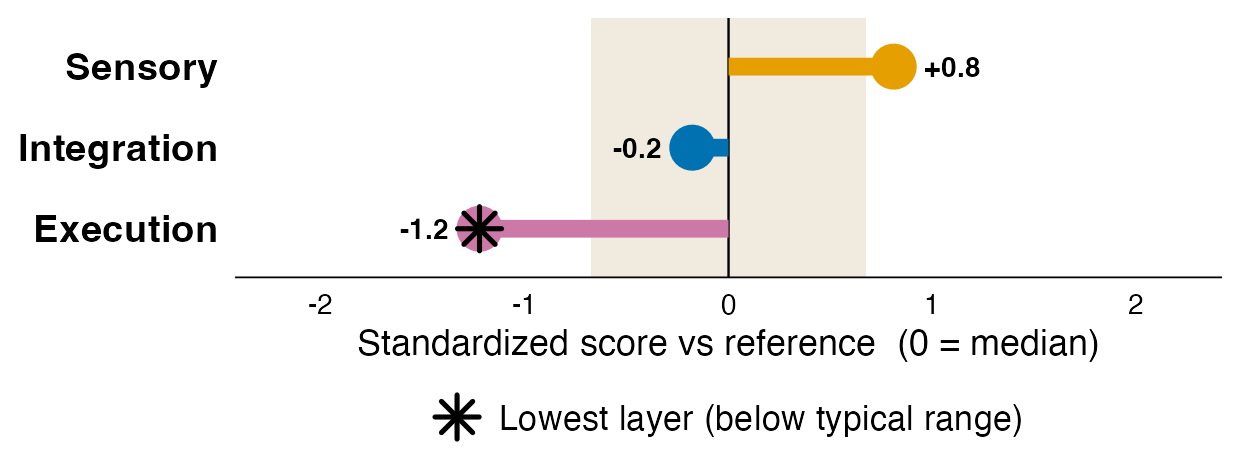
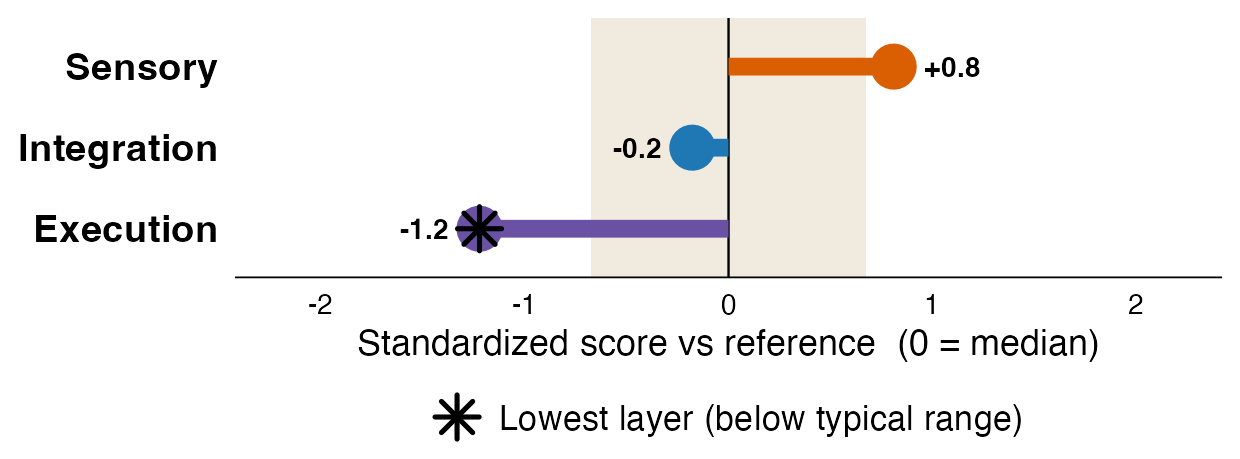
Docs: poster-style "how it works" (method + formula + archetypes + results)
Rebuild the hero figure as a self-explanatory poster in the Figure-1 house
style, so the flow reads on its own:
- The three layers we interrogate (Sensory / Integration / Execution) with
  sub-modules, gene counts, and example genes.
- How we score it, including the scoring formula (gene ON call, layer score,
  standardization, archetype rule).
- The four archetypes (intact / cold / blocked / no-kill) with phenotype and
  lowest layer, color-matched to the plots.
- Results = the app's real outputs: patient gauge and cascade tree, and the
  cohort archetype donut and per-patient layer-score beeswarm.
Plots rendered in the high-contrast palette (fig_gauge/tree/donut/beeswarm.png;
fig_cohort.png removed). American English; no em-dashes (also swept from the
README and two app.R strings). README image enlarged.

Changed region(s): [[0.3677, 0.427, 0.6129, 0.549], [0.5823, 0.0915, 0.7661, 0.2135], [0.521, 0.2745, 0.6129, 0.366]]

diff --git a/app/README.md b/app/README.md
@@ -1,14 +1,14 @@
 <p align="center">
-  <img src="www/logo.png" alt="CascadeScope — Immune Cascade Index" width="460">
+  <img src="www/logo.png" alt="CascadeScope: Immune Cascade Index" width="460">
 </p>
 
 <p align="center">
-  <b>CascadeScope</b> — score tumor RNA against the <b>Immune Cascade Index (ICI)</b> and see
+  <b>CascadeScope</b>: score tumor RNA against the <b>Immune Cascade Index (ICI)</b> and see
   <i>where immunity stalls</i>, one patient at a time.
 </p>
 
 <p align="center">
-  <em>Research use only — investigational biomarker, not a validated clinical test.</em>
+  <em>Research use only: investigational biomarker, not a validated clinical test.</em>
 </p>
 
 ---
@@ -17,10 +17,10 @@
 
 **CascadeScope** is the software; the **Immune Cascade Index (ICI)** is the method it implements.
 
-- **Immune Cascade Index (ICI)** — the *science*: a 98-gene, three-layer transcriptomic framework
+- **Immune Cascade Index (ICI)** is the *science*: a 98-gene, three-layer transcriptomic framework
   for reading the anti-tumor immune response to checkpoint blockade, developed and validated in the
   manuscript.
-- **CascadeScope** — the *software*: a self-contained R/Shiny app that computes and visualizes the
+- **CascadeScope** is the *software*: a self-contained R/Shiny app that computes and visualizes the
   ICI for a single patient (or a cohort), locally. Your data never leaves the machine.
 
 The ICI reads the immune response as a three-stage **cascade** and scores each stage against a
@@ -32,33 +32,33 @@ frozen reference population:
 | **Integration** | T-cell trafficking vs stromal / Treg exclusion | do immune cells *get in*? |
 | **Execution** | cytotoxic effector output (CD8 T **and** NK) vs exhaustion | do the cells that got in *kill*? |
 
-Every score — layers, sub-modules, and individual genes — is reported on **one scale**: the
+Every score (layers, sub-modules, and individual genes) is reported on **one scale**: the
 **standardized score versus the reference** (0 = reference median, in SD units). The lowest layer is
 flagged for attention (it marks where the cascade reads weakest, **not** a proven causal bottleneck).
 
 ## How it works
 
 <p align="center">
-  <img src="docs/architecture.png" alt="CascadeScope architecture" width="900">
+  <img src="docs/architecture.png" alt="How CascadeScope works: the three-layer cascade, the scoring formula, the four archetypes, and the app outputs" width="1000">
 </p>
 
-1. **Input** — a tumor RNA-seq gene × sample table (TPM, log-TPM or counts).
-2. **Score** — each gene is self-normalized within the sample and compared to a **frozen 98-gene
-   reference distribution**, so a single patient can be scored **cohort-independently**.
-3. **Cascade** — genes roll up into 5 sub-modules and 3 layers; each layer gets a standardized score
-   vs the reference; the lowest layer names the archetype (**intact · cold · blocked · no-kill**).
-4. **Read-outs** — a patient report, a 98-gene cascade view, and a cohort explorer, with PDF / CSV export.
+1. **Input:** a tumor RNA-seq gene × sample table (TPM, log-TPM, or counts).
+2. **Score:** each gene is self-normalized within the sample and compared to a **frozen 98-gene
+   reference**, so a single patient is scored **cohort-independently**.
+3. **Cascade:** genes roll up into 5 sub-modules and 3 layers; each layer gets a standardized score
+   vs the reference, and the lowest layer names the archetype (**intact · cold · blocked · no-kill**).
+4. **Read-outs:** patient report, 98-gene cascade view, and cohort explorer, with PDF / CSV export.
 
 ## Features
 
-- **Patient report** — the archetype call, a standardized-score gauge with the lowest layer starred,
+- **Patient report:** the archetype call, a standardized-score gauge with the lowest layer starred,
   the cascade drill-down (which sub-module is furthest from the reference), the lowest-layer biology
   (investigational), and a one-page **PDF** export.
-- **Gene drivers** — a per-patient **cascade tree** (98 genes → sub-modules → layers) and a
+- **Gene drivers:** a per-patient **cascade tree** (98 genes → sub-modules → layers) and a
   side-by-side **layer-heatmap** view, each on its own scale.
-- **Cohort explorer** — archetype proportions, layer-score distributions, a per-patient beeswarm
+- **Cohort explorer:** archetype proportions, layer-score distributions, a per-patient beeswarm
   (click a point or a table row to open that patient), and a cohort **PDF** report.
-- **About** — the method, the scale, the archetypes, and the research-use-only notice.
+- **About:** the method, the scale, the archetypes, and the research-use-only notice.
 - Colour-blind-safe palette by default (plus three alternatives); downloads in CSV / TSV / Excel.
 
 ## Install
@@ -104,7 +104,7 @@ Click **Load example cohort** in the sidebar to try it immediately with the bund
 A **gene × sample** table: first column = gene symbol, remaining columns = samples.
 
 - Formats: **CSV, TSV, or Excel** (`.xlsx` / `.xls`); the delimiter is auto-detected for text files.
-- Values: **TPM, log-TPM, or counts** — linear data is auto-log2-transformed.
+- Values: **TPM, log-TPM, or counts**; linear data is auto-log2-transformed.
 - A **single patient** is simply a one-column file.
 - Coverage of the 98 panel genes is reported; gene **aliases / Ensembl IDs** are mapped automatically.
 
@@ -116,14 +116,14 @@ Download a ready-made template from the sidebar (**Download an input template**)
 - **Frozen reference.** Scoring is against a **locked** per-gene reference distribution shipped in
   [`references/ICI_v1.rds`](references/ICI_v1.rds). Given the same input, the output is **deterministic**.
 - **Cohort-independent.** Each sample is self-normalized, so results do not depend on which other
-  samples are in the file — a single patient scores identically alone or in a cohort.
+  samples are in the file, so a single patient scores identically alone or in a cohort.
 - **Versioned registry.** Every report is stamped with the panel/reference version, gene coverage,
   and build date. Drop a new `references/*.rds` in and it appears in the selector with no code change.
 - **Self-contained.** This folder has everything needed to run (app code, scoring engine, frozen
   reference, example data, assets). No internet or external database is required at run time.
 
 > `make_app_assets.R` documents how the frozen reference was built. It is **not** needed to run the
-> app and cannot be re-run from this folder alone — it requires the reference cohort expression
+> app and cannot be re-run from this folder alone; it requires the reference cohort expression
 > matrix and the panel definition (not distributed) plus Bioconductor's `org.Hs.eg.db`.
 
 ## Repository layout
@@ -151,7 +151,7 @@ see [`SHARING.md`](SHARING.md).
 ## Citing & license
 
 If you use CascadeScope or the ICI, please cite the manuscript (citation to be added on publication).
-A license has not yet been chosen — please add one before public distribution.
+A license has not yet been chosen; please add one before public distribution.
 
 ## Research use only
 
